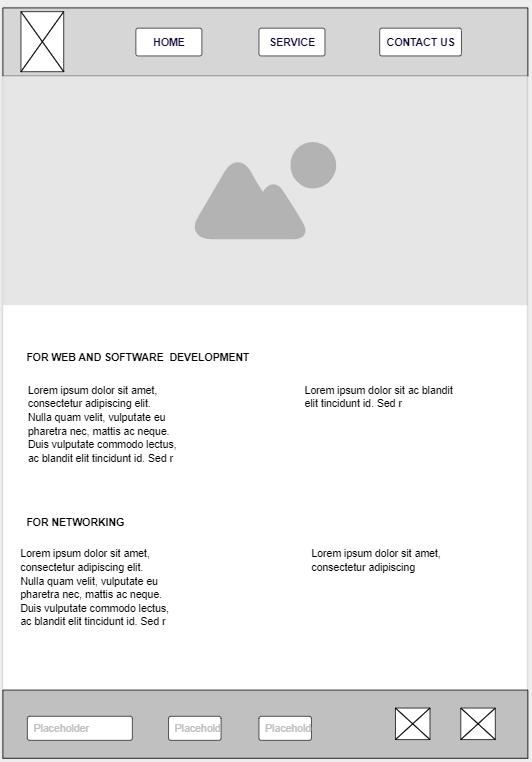
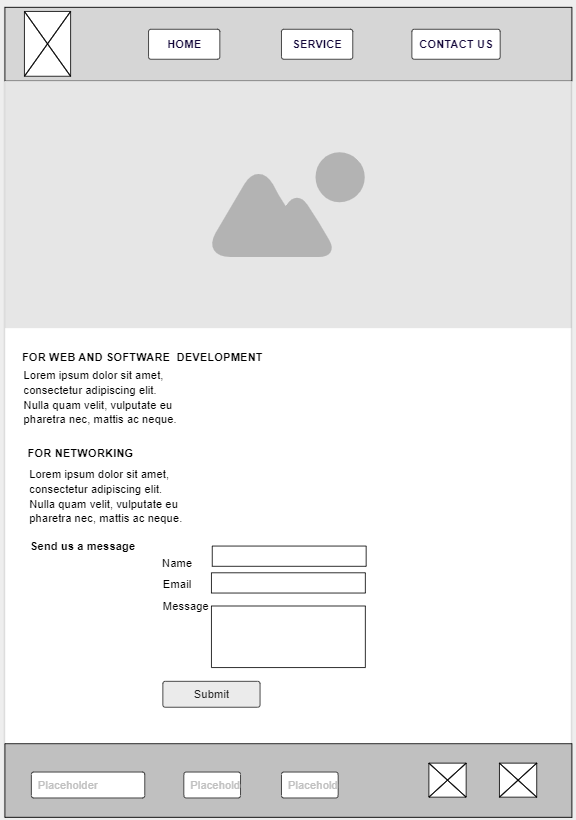
added 3 html pages to the personal site

diff --git a/it_solutions/contactus.html b/it_solutions/contactus.html
@@ -1,0 +1,83 @@
+<!DOCTYPE html>
+<html lang="en">
+<head>
+    <meta charset="UTF-8">
+    <meta http-equiv="X-UA-Compatible" content="IE=edge">
+    <meta name="viewport" content="width=device-width, initial-scale=1.0">
+    <title>EbenAsam IT Solutions | Home</title>
+    <link rel="stylesheet" href="styles/style.css">
+</head>
+<body>
+    <div id="content">
+        <header>
+            <a id="logo_link" href="index.html">
+                <img class="logo" src="images/it_logo.png" alt="EbenAsam ITS Logo">
+            </a>
+            <nav>
+                <a href="index.html">Home</a>
+                <a href="service.html">Service</a>
+                <a href="contactus.html">Contact Us</a>
+            </nav>
+        </header>
+        <div id="contactus-banner">
+            <div id="contactus-banner-box">
+                <img id="contactus-banner-img" src="images/contact_us.jpg" alt="image of a phone">
+            </div>
+        </div>
+        <main class="contactus-grid">
+            <div id="contactus-background"></div>
+            <section class="web-design-msg">
+                <h2>FOR WEB AND SOFTWARE DEVELOPMENT</h2>
+                <h3>Contact</h3>
+                <p>Web and Software Department.</p>
+                <p>2246 Old John Sabath Road,</p>
+                <p>Sekondi-Takoradi.</p>
+                <p>Ghana, West Africa.</p>
+            </section>
+            <section class="networking-msg">
+                <h2>FOR NETWORKING</h2>
+                <h3>Contact</h3>
+                <p>Networking and HardWare Department.</p>
+                <p>2246 Old John Sabath Road,</p>
+                <p>Sekondi-Takoradi.</p>
+                <p>Ghana, West Africa.</p>
+            </section>
+            <form action="/it_solutions/contactus.html" method="post">
+                <ul>
+                    <li>
+                        <label for="name">Name</label>
+                        <input type="text" id="name" name="user_name" />
+                    </li>
+                    <li>
+                        <label for="mail">Email:</label>
+                        <input type="email" id="mail" name="user_email" />
+                    </li>
+                    <li>
+                        <label for="msg">Message:</label>
+                        <textarea id="msg" name="user_message"></textarea>
+                    </li>
+                    <li class="button">
+                        <button type="submit">Submit message</button>
+                    </li>
+                </ul>
+            </form>
+        </main>
+        <footer>
+            <p>EbenAsam-IT Solutions &copy; 2023 - Ebenezer Asamoah</p>
+            <p><a href="site-plan.html">Site Plan</a></p>
+            <p><a href="contactus.html">Contact Us</a></p>
+            <div class="social">
+                <a href="https://facebook.com" target="_blank">
+                    <img src="images/facebook.png" alt="fb icon">
+                </a>
+                <a href="https://twitter.com" target="_blank">
+                    <img src="images/twitter.png" alt="twitter icon">
+                </a>
+                <a href="https://instagram.com" target="_blank">
+                    <img src="images/instagram.png" alt="instagram icon">
+                </a>
+            </div>
+        </footer>
+    </div>
+</body>
+</html>

diff --git a/it_solutions/service.html b/it_solutions/service.html
@@ -19,23 +19,31 @@
                 <a href="contactus.html">Contact Us</a>
             </nav>
         </header>
-        <div id="home-banner">
-            <div id="home-banner-box">
-                <img id="home-banner-img" src="images/website-hosting-concept-with-bright-light.jpg" alt="image of web-hosting concept">
+        <div id="service-banner">
+            <div id="service-banner-box">
+                <img id="service-banner-img" src="images/fotis-fotopoulos-6sAl6aQ4OWI-unsplash.jpg" alt="image">
             </div>
         </div>
-        <main class="home-grid">
-            <section class="home-msg">
-                <h2>OVERVIEW</h2>
-                <p>At EbenAsam IT Solutions, we offer quality yet affordable service to companies, institutions, and individuals as a whole. We are located in Ghana, West Africa. You can contact us and book an appointment for us to serve you better.</p>
+        <main class="service-grid">
+            <div id="servie-background"></div>
+            <img class="web-design" src="images/mikhail-fesenko-p6YWrjhmjhM-unsplash.jpg" alt="image">
+            <section class="web-design-msg">
+                <h2>Web Design and Development</h2>
+                <p>We are expect in web design and development. Our team of expects have designed and developed many web sites for many clients with positive results.</p>
             </section>
+            <img class="Networking" src="images/thomas-jensen-ISG-rUel0Uw-unsplash.jpg" alt="image of network cards">
+            <section class="networking-msg">
+                <h2>Networking</h2>
+                <p>Networking is one of our expertise and we have achieve more success in networking company's office buildings and institution's devices no matter how large or small the area may be.</p>
+            </section>
+            <img class="software" src="images/turned-gray-laptop-computer.jpg" alt="image of software codes">
+            <section class="software-msg">
+                <h2>Software Development</h2>
+                <p>Our team of expects are capable of developing a good of nature.</p>
+                <p>Be it online of offline software, for games or entertainment, educational or business you can rely on us for a quality work done.</p>
+            </section>
+            
 
-            <div id="background"></div>
-            <img class="home-img" src="images/home_page.jpg" alt="image of someone typing">
-            <section class="msg">
-                <h2>Here to serve you</h2>
-                <p>We are here to help you find solutions to your IT challenges. Together, we make your company a modern one.</p>
-            </section>
         </main>
         <footer>
             <p>EbenAsam-IT Solutions &copy; 2023 - Ebenezer Asamoah</p>
